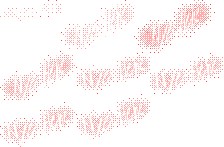
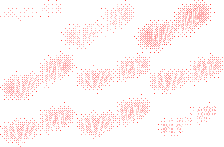
eeeechrome done

Changed region(s): [[0.7188, 0.7891, 0.8438, 0.9252], [0.875, 0.7075, 0.9688, 0.8435]]

diff --git a/src/stage/mono.c b/src/stage/mono.c
@@ -11,13 +11,6 @@
 #include "../stage.h"
 #include "../random.h"
 
-/*
-#include "../pad.h"
-int mog = -159;
-int sog = -119;
-int zog = 320;
-int nog = 240;
-*/
 //mono background structure
 typedef struct
 {
@@ -26,17 +19,65 @@ typedef struct
 
 	//Textures
 	IO_Data arc_paps, arc_paps_ptr[1];
+	IO_Data arc_nyeh, arc_nyeh_ptr[1];
 
 	Gfx_Tex tex_ded; //imdead
 	Gfx_Tex tex_scream; //ded paps
 
 	//paps state
 	Gfx_Tex tex_paps;
+	Gfx_Tex tex_nyeh;
 	u8 paps_frame, paps_tex_id;
+	u8 nyeh_frame, nyeh_tex_id;
 	
+	Animatable nyeh_animatable;
 	Animatable paps_animatable;
 } Back_mono;
 
+//nyeh animation and rects
+static const CharFrame nyeh_frame[9] = {
+	{0, {0, 0, 62, 21}, {96, 187}}, //0
+	{0, {158, 102, 66, 43}, {96, 187}}, //1
+	{0, {62, 0, 72, 51}, {96, 187}}, //2
+	{0, {135, 0, 81, 53}, {96, 187}}, //3
+	{0, {0, 52, 77, 49}, {96, 187}}, //4
+	{0, {78, 54, 72, 40}, {96, 187}}, //5
+	{0, {150, 53, 75, 42}, {96, 187}}, //6
+	{0, {0, 103, 77, 44}, {96, 187}}, //7
+	{0, {77, 94, 76, 49}, {96, 187}}, //8
+};
+
+static const Animation nyeh_anim[] = {
+	{2, (const u8[]){0, 1, 2, 3, 4, 5, 6, 7, 8, 7, 8, 7, 8, 7, 8, 4, 1, 0, ASCR_BACK, 0}}, //Left
+};
+
+//nyeh functions
+void mono_nyeh_SetFrame(void *user, u8 frame)
+{
+	Back_mono *this = (Back_mono*)user;
+	
+	//Check if this is a new frame
+	if (frame != this->nyeh_frame)
+	{
+		//Check if new art shall be loaded
+		const CharFrame *cframe = &nyeh_frame[this->nyeh_frame = frame];
+		if (cframe->tex != this->nyeh_tex_id)
+			Gfx_LoadTex(&this->tex_nyeh, this->arc_nyeh_ptr[this->nyeh_tex_id = cframe->tex], 0);
+	}
+}
+
+void mono_nyeh_Draw(Back_mono *this, fixed_t x, fixed_t y)
+{
+	//Draw character
+	const CharFrame *cframe = &nyeh_frame[this->nyeh_frame];
+	
+	fixed_t ox = x - ((fixed_t)cframe->off[0] << FIXED_SHIFT);
+	fixed_t oy = y - ((fixed_t)cframe->off[1] << FIXED_SHIFT);
+	
+	RECT src = {cframe->src[0], cframe->src[1], cframe->src[2], cframe->src[3]};
+	RECT_FIXED dst = {ox, oy, src.w << FIXED_SHIFT, src.h << FIXED_SHIFT};
+	Stage_DrawTex(&this->tex_nyeh, &src, &dst, stage.camera.bzoom);
+}
 
 //paps animation and rects
 static const CharFrame paps_frame[12] = {
@@ -57,10 +98,8 @@ static const CharFrame paps_frame[12] = {
 };
 
 static const Animation paps_anim[] = {
-	{2, (const u8[]){0, 1, 2, 3, 4, 5, 6, 7, 8, 9, 10, 11, 11, 11, 11,11,11,11,11,11,11,11,11,11,11,11, 5, 4, 3, 2, 1, 0, ASCR_BACK, 0}}, //Left
+	{2, (const u8[]){0, 1, 2, 3, 4, 5, 6, 7, 8, 9, 10, 11, 5, 4, 3, 2, 1, 0, ASCR_BACK, 0}}, //Left
 };
-
-
 
 //paps functions
 void mono_paps_SetFrame(void *user, u8 frame)
@@ -95,43 +134,20 @@ void Back_mono_DrawFG(StageBack *back)
 	Back_mono *this = (Back_mono*)back;
     fixed_t fx, fy;
 
-/*
-	FntPrint("x%d y%d zog %d nog %d", mog, sog, zog, nog);
-
-	if (pad_state.held & PAD_UP)
-		sog --;
-	if (pad_state.held & PAD_DOWN)
-		sog ++;
-	if (pad_state.held & PAD_LEFT)
-		mog --;
-	if (pad_state.held & PAD_RIGHT)
-		mog ++;
-	
-	if (pad_state.held & PAD_TRIANGLE)
-		zog --;
-	if (pad_state.held & PAD_CROSS)
-		zog ++;
-	if (pad_state.held & PAD_SQUARE)
-		nog --;
-	if (pad_state.held & PAD_CIRCLE)
-		nog ++;
-*/
-
 	//Animate and draw paps
 	fx = stage.camera.x;
 	fy = stage.camera.y;
 	
 	if (stage.flag & STAGE_FLAG_JUST_STEP)
 	{
-		switch (stage.song_step % 0x20)
+		switch (stage.song_step & 0x12)
 		{
 			case 0:
 				Animatable_SetAnim(&this->paps_animatable, 0);
+				Animatable_SetAnim(&this->nyeh_animatable, 0);
 				break;
 		}
 	}
-	if (stage.song_step >= 368 && stage.song_step <= 400) 
-	Animatable_Animate(&this->paps_animatable, (void*)this, mono_paps_SetFrame);
 
 	//Draw scream
 	fx = stage.camera.x;
@@ -168,9 +184,15 @@ void Back_mono_DrawFG(StageBack *back)
 		Stage_DrawTex(&this->tex_ded, &ded_src, &ded_dst, stage.camera.bzoom);
 	if (stage.song_step >= 376 && stage.song_step <= 384)
 		Stage_DrawTex(&this->tex_ded, &ded2_src, &ded2_dst, stage.camera.bzoom);
+	
+	if ((stage.song_step >= 368 && stage.song_step <= 368 + 15) || (stage.song_step >= 817 && stage.song_step <= 817 + 15) || (stage.song_step >= 1264 && stage.song_step <= 1264 + 15))
+	{
+		Animatable_Animate(&this->nyeh_animatable, (void*)this, mono_nyeh_SetFrame);
+		mono_nyeh_Draw(this, FIXED_DEC(0,1) - fx, FIXED_DEC(290,1) - fy);
 
-	if (stage.song_step >= 368 && stage.song_step <= 400) 
-		mono_paps_Draw(this, FIXED_DEC(-100,1) - fx, FIXED_DEC(30,1) - fy);
+		Animatable_Animate(&this->paps_animatable, (void*)this, mono_paps_SetFrame);
+		mono_paps_Draw(this, FIXED_DEC(-120,1) - fx, FIXED_DEC(60,1) - fy);
+	}
 }
 
 void Back_mono_Free(StageBack *back)
@@ -180,6 +202,7 @@ void Back_mono_Free(StageBack *back)
 	//Free structure
 	Mem_Free(this);
 	Mem_Free(this->arc_paps);
+	Mem_Free(this->arc_nyeh);
 }
 
 StageBack *Back_mono_New(void)
@@ -204,12 +227,16 @@ StageBack *Back_mono_New(void)
 	//Load paps textures
 	this->arc_paps = IO_Read("\\MONOCH\\BACK.ARC;1");
 	this->arc_paps_ptr[0] = Archive_Find(this->arc_paps, "paps.tim");
+	this->arc_nyeh = IO_Read("\\MONOCH\\BACK.ARC;1");
+	this->arc_nyeh_ptr[0] = Archive_Find(this->arc_nyeh, "nyeh.tim");
 	
 	//Initialize paps state
 	Animatable_Init(&this->paps_animatable, paps_anim);
 	Animatable_SetAnim(&this->paps_animatable, 0);
 	this->paps_frame = this->paps_tex_id = 0xFF; //Force art load
-	
+	Animatable_Init(&this->nyeh_animatable, nyeh_anim);
+	Animatable_SetAnim(&this->nyeh_animatable, 0);
+	this->nyeh_frame = this->nyeh_tex_id = 0xFF; //Force art load	
 
 	Gfx_SetClear(0, 0, 0);
 
